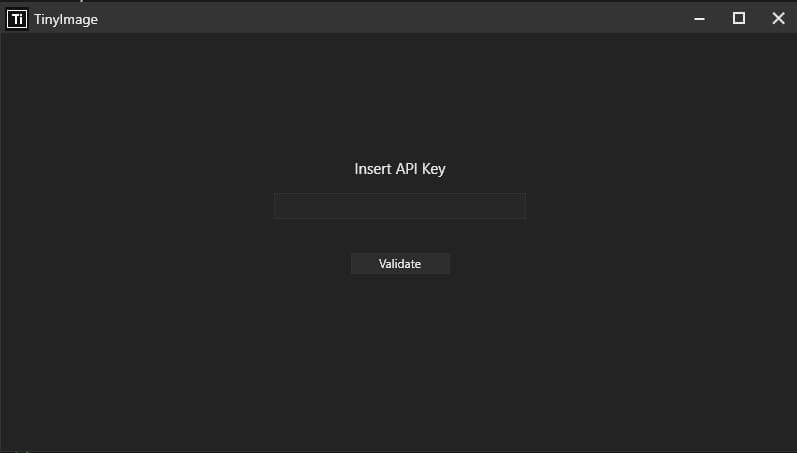
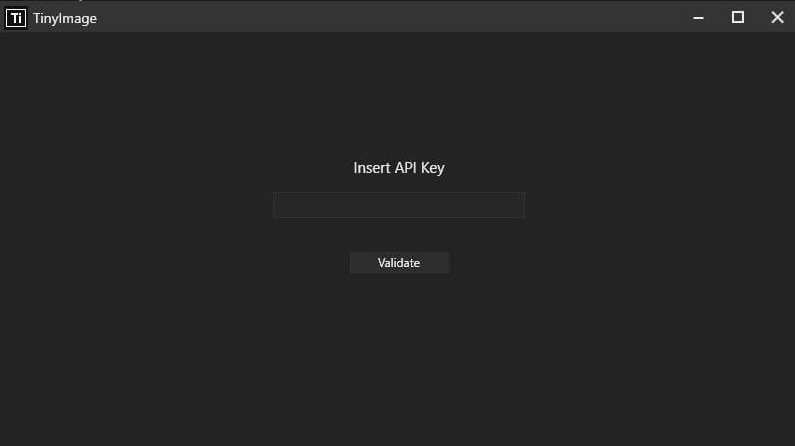
Doc details added

diff --git a/README.md b/README.md
@@ -4,6 +4,7 @@
 * Select input/output folder
 * Synchronize
 
-
+![TinyImage - API Validation Screen](./doc-assets/tiny-image-insert-api-key-screen.jpg)
+![TinyImage - Sync Screen](./doc-assets/tiny-image-sync-screen.jpg)
 
 <sup>Tinify Image through www.tinyjpg.com API</sup>
